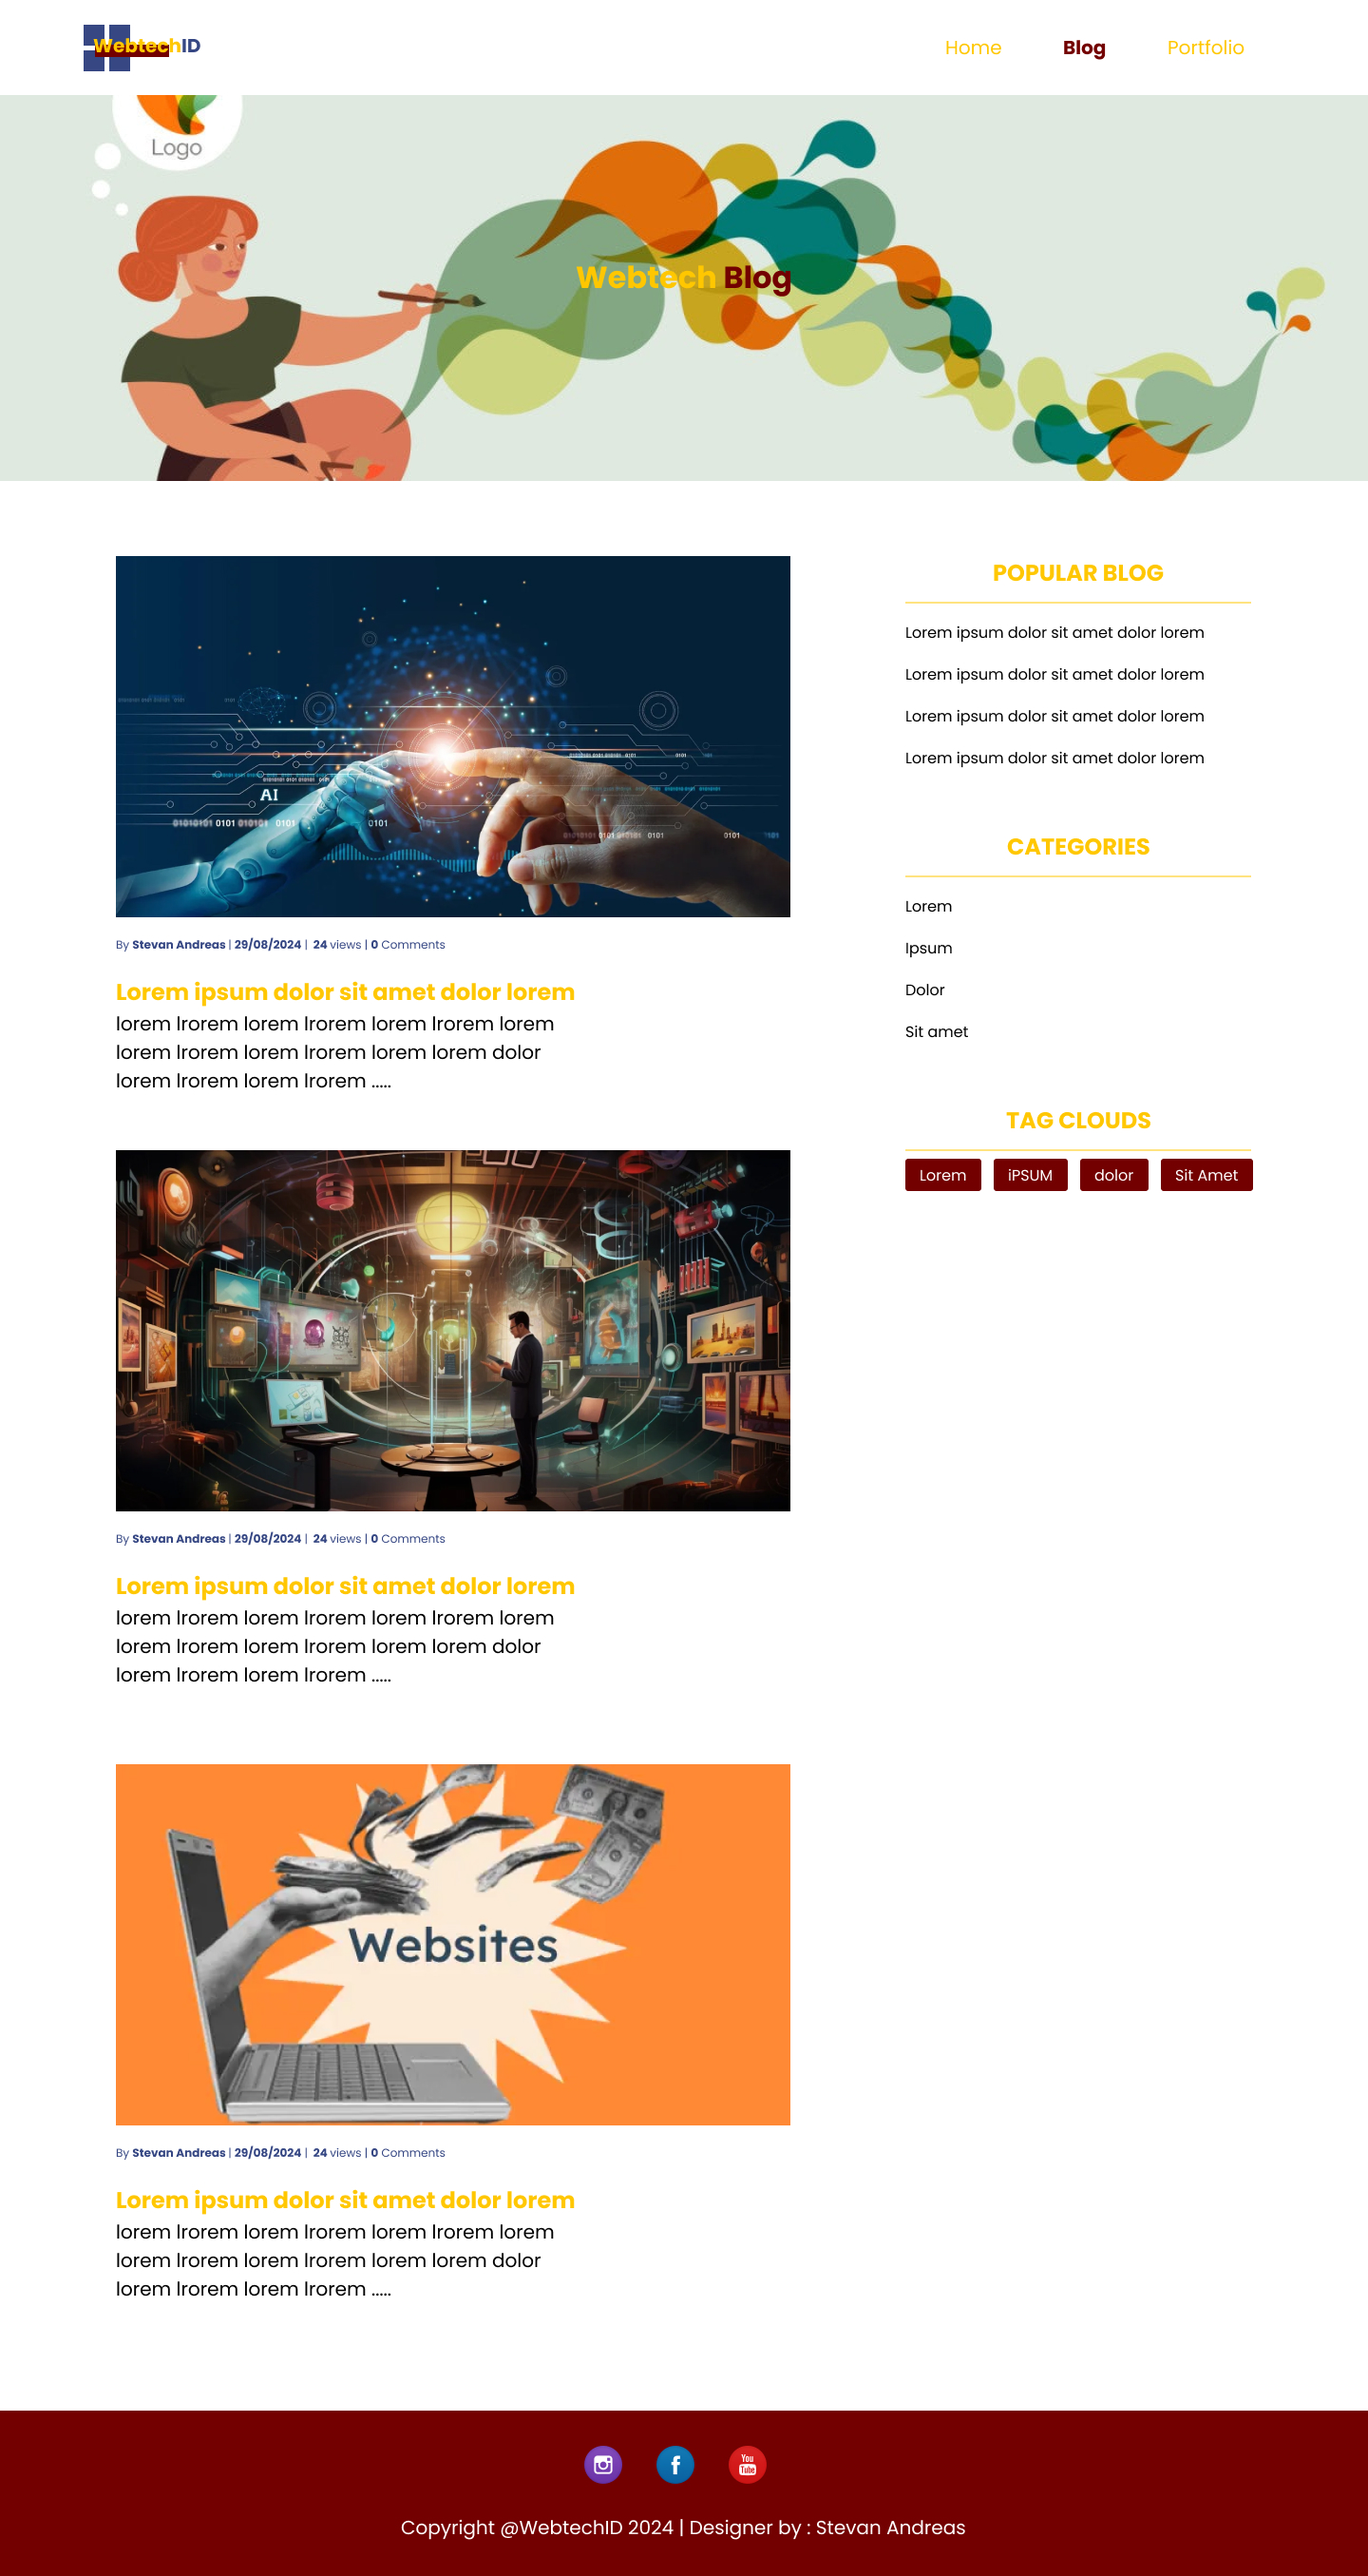
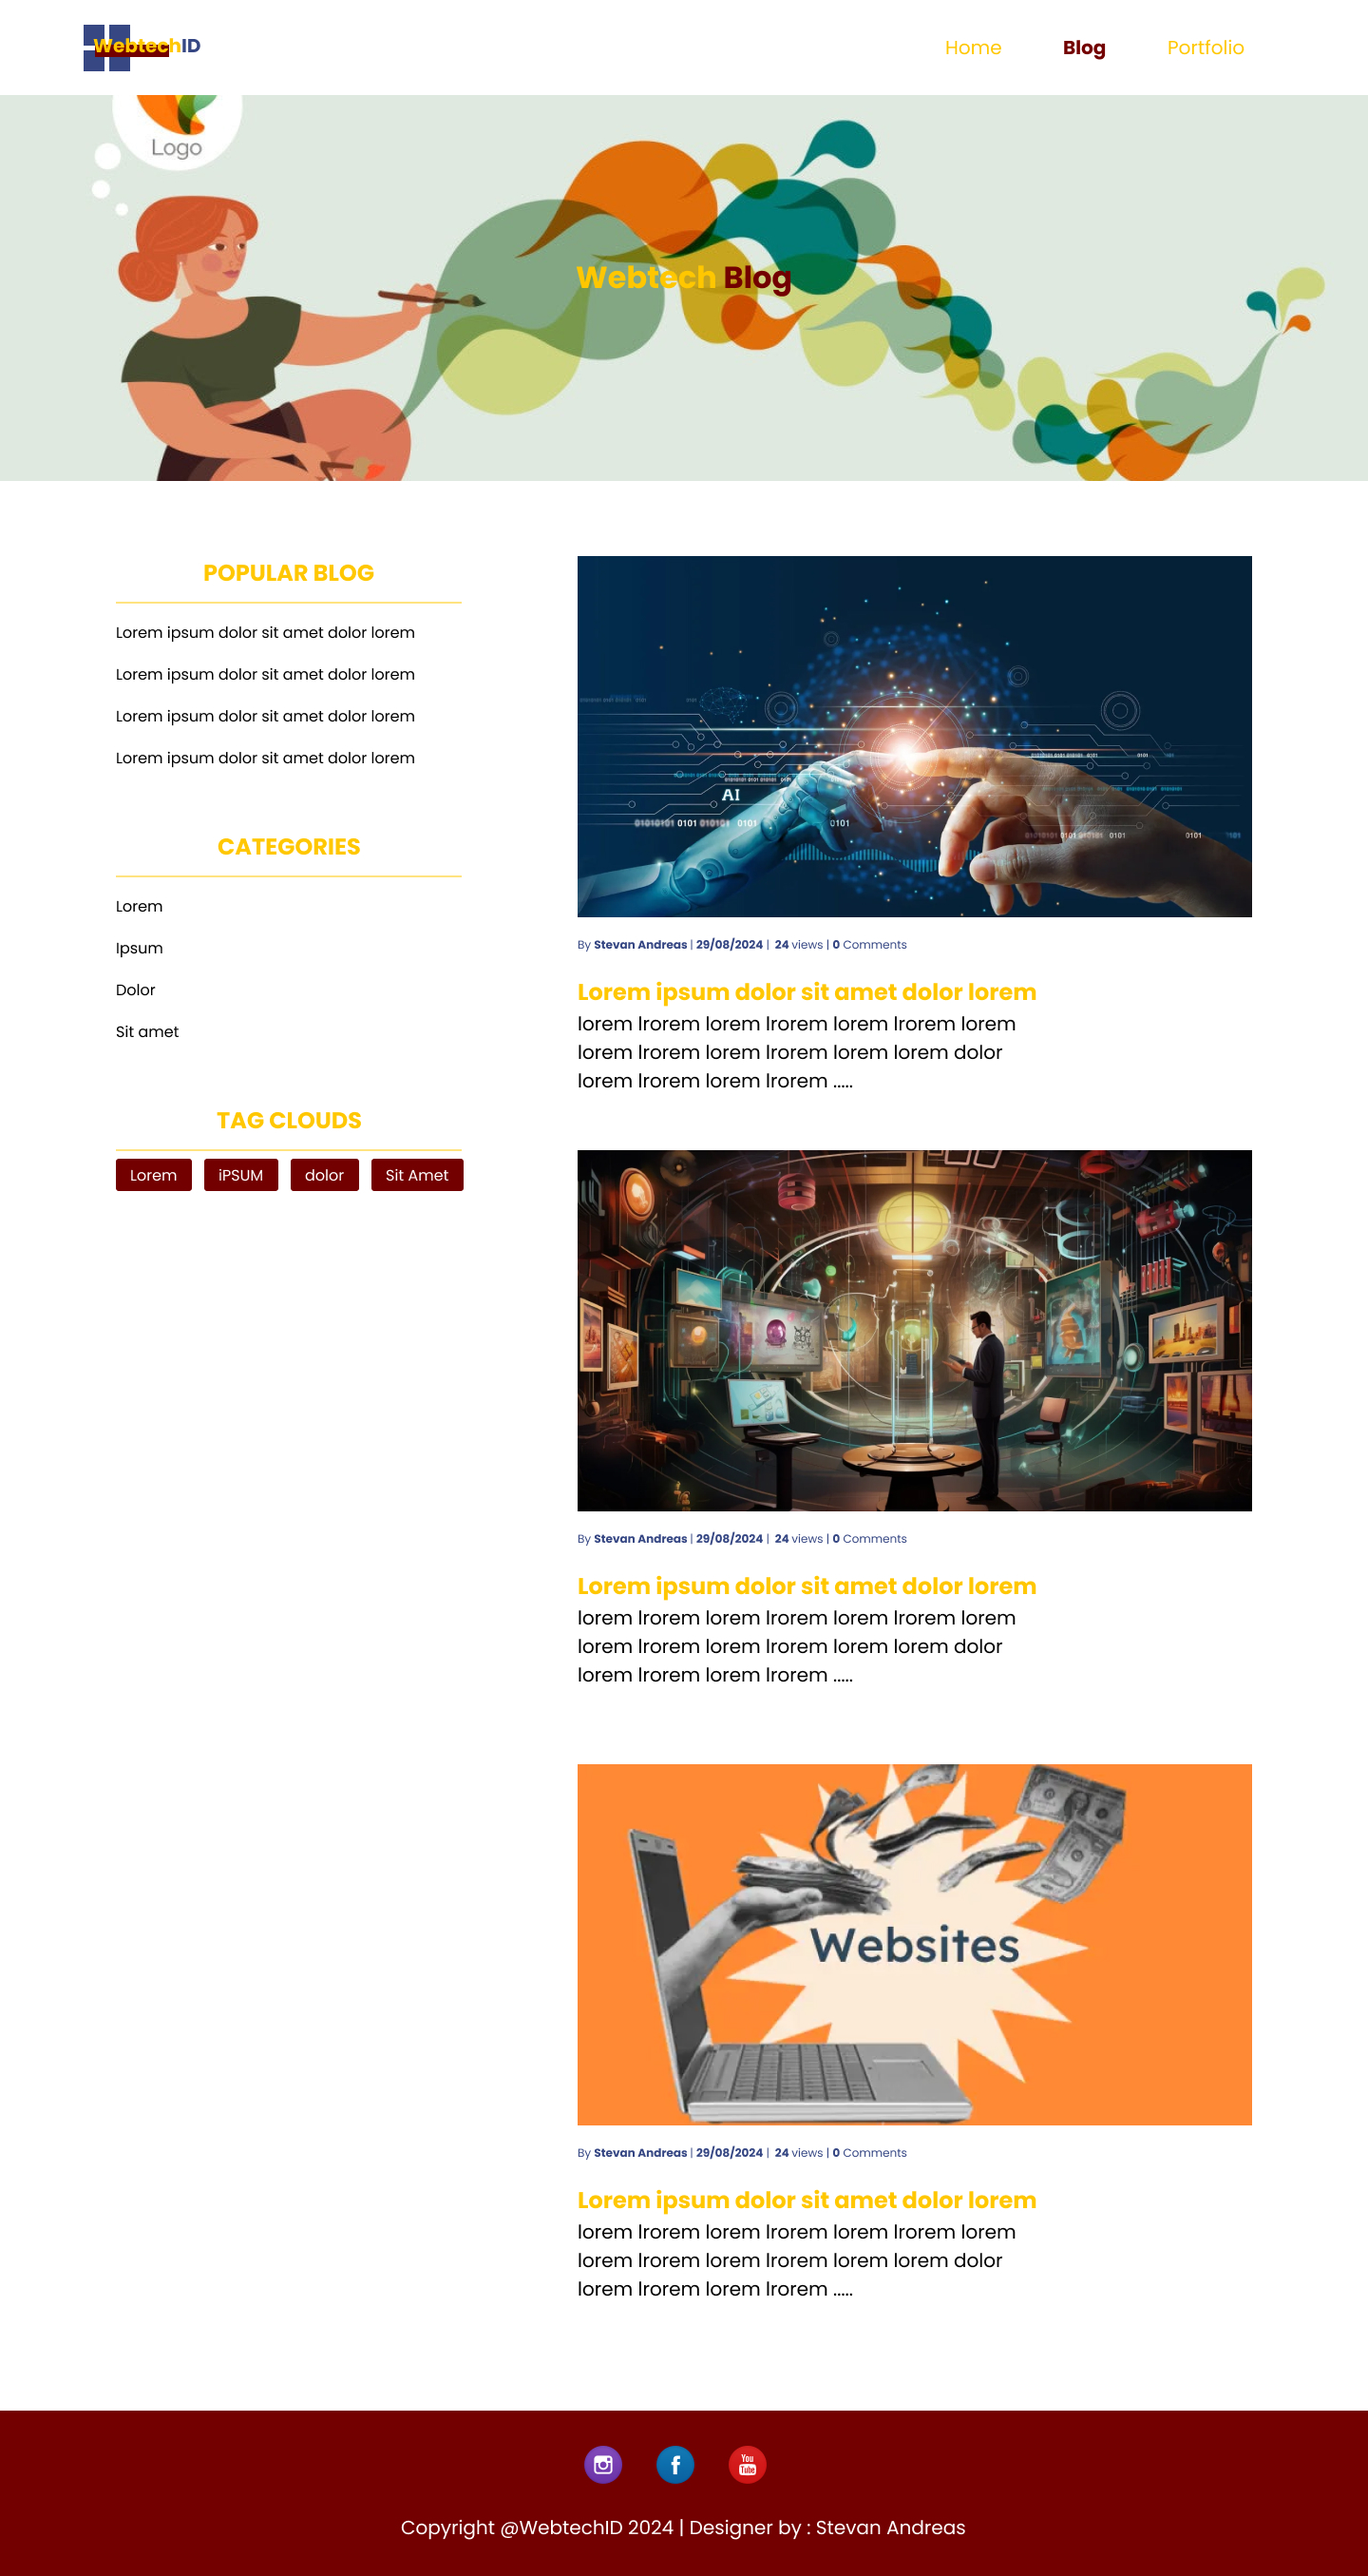
feat: tablet blog | style: computer blog

diff --git a/README.md b/README.md
@@ -1,3 +1,3 @@
 ### Selekda Online Webtechnologies 2024
 
-## Status: Working, Postman Docs
+## Status: Working, Figma design
